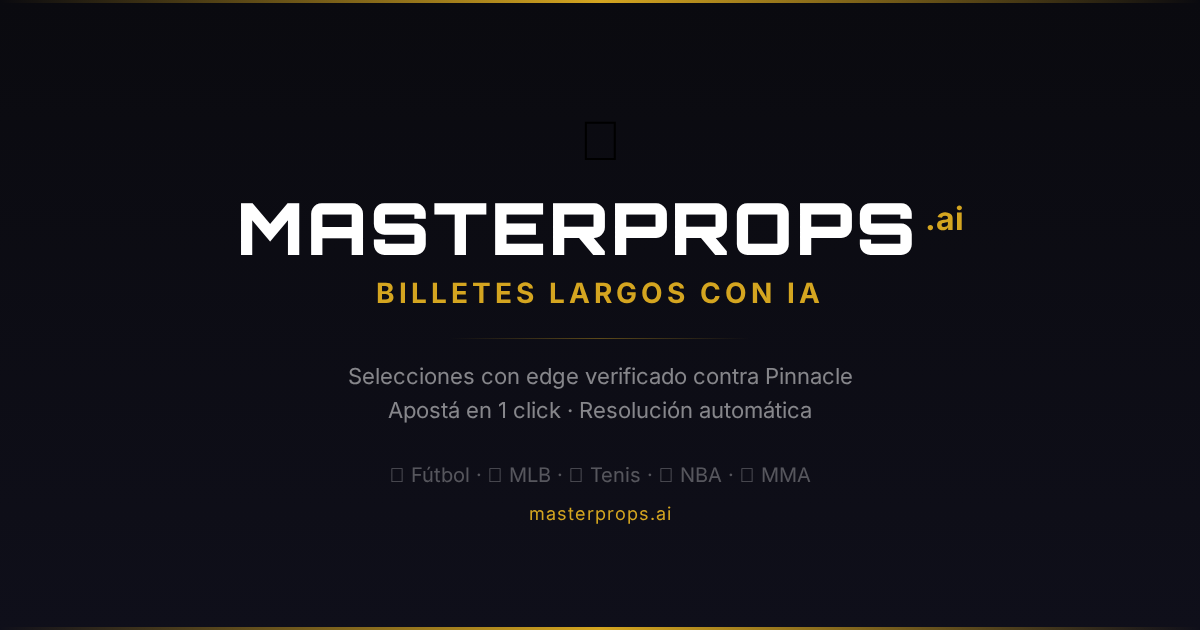
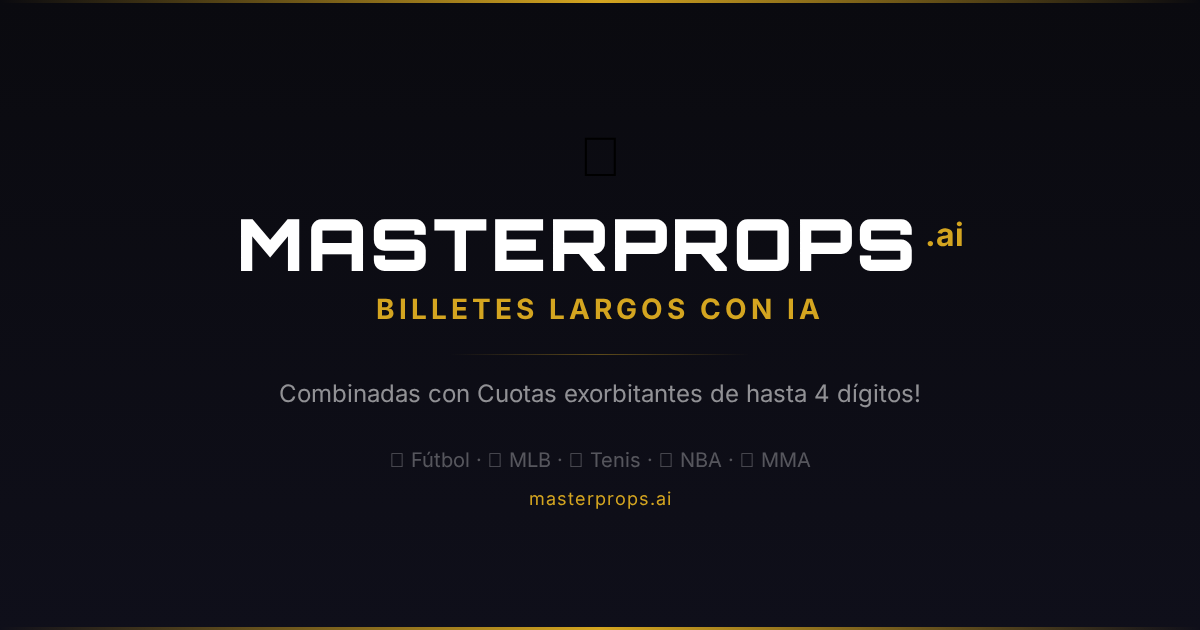
OG image: "Combinadas con Cuotas exorbitantes de hasta 4 dígitos!"

Changed region(s): [[0.185, 0.3016, 0.8017, 0.5127], [0.2158, 0.573, 0.7708, 0.6635], [0.3392, 0.7238, 0.6783, 0.8444]]

diff --git a/index.html b/index.html
@@ -8,7 +8,7 @@
 <meta name="keywords" content="billetes largos, apuestas deportivas, props, IA apuestas, parlay, combinadas, cuotas altas, DBbet, pronósticos deportivos">
 <link rel="canonical" href="https://masterprops.ai/">
 <meta property="og:title" content="MasterProps — Billetes Largos con IA">
-<meta property="og:description" content="La primera IA especializada en billetes largos de alto rendimiento. Cuotas reales, edge verificado contra Pinnacle, análisis de forma y lesiones.">
+<meta property="og:description" content="Combinadas con cuotas exorbitantes de hasta 4 dígitos! La primera IA especializada en billetes largos de alto rendimiento.">
 <meta property="og:url" content="https://masterprops.ai/">
 <meta property="og:type" content="website">
 <meta property="og:locale" content="es_AR">

diff --git a/template.html b/template.html
@@ -8,7 +8,7 @@
 <meta name="keywords" content="billetes largos, apuestas deportivas, props, IA apuestas, parlay, combinadas, cuotas altas, DBbet, pronósticos deportivos">
 <link rel="canonical" href="https://masterprops.ai/">
 <meta property="og:title" content="MasterProps — Billetes Largos con IA">
-<meta property="og:description" content="La primera IA especializada en billetes largos de alto rendimiento. Cuotas reales, edge verificado contra Pinnacle, análisis de forma y lesiones.">
+<meta property="og:description" content="Combinadas con cuotas exorbitantes de hasta 4 dígitos! La primera IA especializada en billetes largos de alto rendimiento.">
 <meta property="og:url" content="https://masterprops.ai/">
 <meta property="og:type" content="website">
 <meta property="og:locale" content="es_AR">
